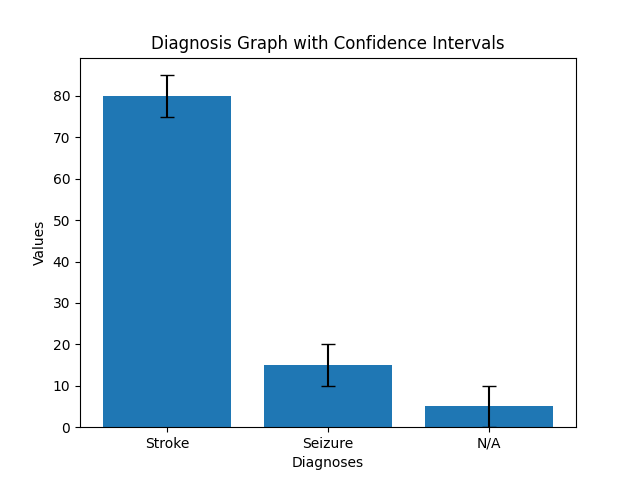
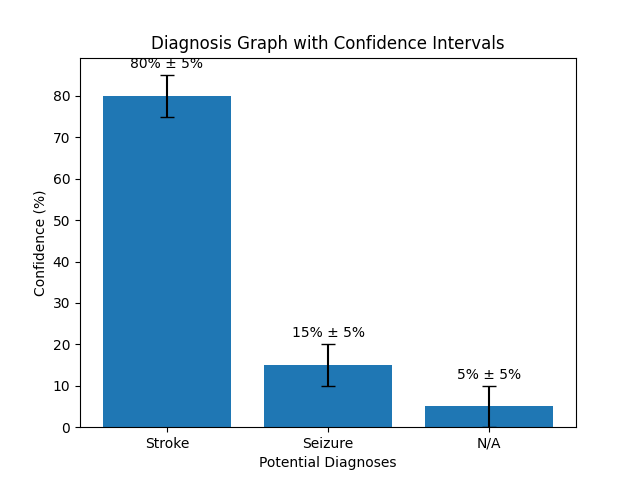
bargraph updates again

diff --git a/myproject/myproject/views.py b/myproject/myproject/views.py
@@ -33,8 +33,10 @@ def settings_view(request):
 
 def homepage(request):
     # return HttpResponse("Hello World! I'm Home.")
+    create_bar_graph_with_ci()  # Generates and saves the graph
     upload_result = request.session.pop('upload_result', None)  # Get result and clear it from session
     return render(request, 'home.html', {'upload_result': upload_result})
+
 
 
 def about(request):
@@ -45,6 +47,6 @@ def bargraph(request):
     create_bar_graph_with_ci()  # Call the function to generate the graph
     return render(request, 'bargraph.html')
 
-def bar_chart_view(request):
-    create_bar_graph_with_ci()  # Generate the updated image
-    return render(request, 'bar_chart.html', {'timestamp': now().timestamp()})
+#def bar_chart_view(request):
+    #create_bar_graph_with_ci()  # Generate the updated image
+    #return render(request, 'bar_chart.html', {'timestamp': now().timestamp()})

diff --git a/myproject/bargraph/barscript.py b/myproject/bargraph/barscript.py
@@ -14,8 +14,8 @@ def create_bar_graph_with_ci():
     plt.close('all')  # Close all open figures
 
     categories = ['Stroke', 'Seizure', 'N/A']
-    values = [80,15,5]
-    confidence_intervals = [5,5,5]
+    values = [98,0.5,1.5]
+    confidence_intervals = [2,2,2]
 
     # Set up the figure and plot
     fig, ax = plt.subplots()
@@ -40,5 +40,5 @@ def create_bar_graph_with_ci():
     # Save the plot as an image
     output_path = os.path.join(settings.BASE_DIR,'static', 'bar_graph_ci.png')
     print(f"Saving image to: {output_path}")
-    plt.savefig({output_path})  # Save to Django static folder
+    plt.savefig(output_path)  # Save to Django static folder
     

diff --git a/myproject/myproject/settings.py b/myproject/myproject/settings.py
@@ -120,12 +120,12 @@ USE_TZ = True
 # Static files (CSS, JavaScript, Images)
 # https://docs.djangoproject.com/en/5.0/howto/static-files/
 BASE_DIR = os.path.dirname(os.path.dirname(os.path.abspath(__file__)))
-STATIC_URL = 'static/'
+STATIC_URL = '/static/'
 MEDIA_URL = 'media/'
 
 STATIC_ROOT = os.path.join(BASE_DIR, 'assets')
 MEDIA_ROOT = os.path.join(BASE_DIR, 'media')
-STATICFILES_DIRS = [os.path.join(BASE_DIR,'static')]
+STATICFILES_DIRS = [os.path.join(BASE_DIR,"static")]
 
 #STATICFILES_DIRS = [
     #BASE_DIR / 'static'
